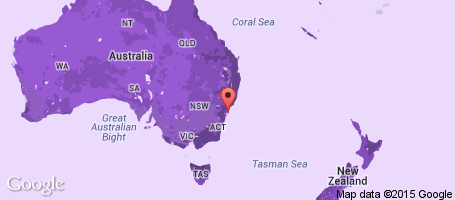
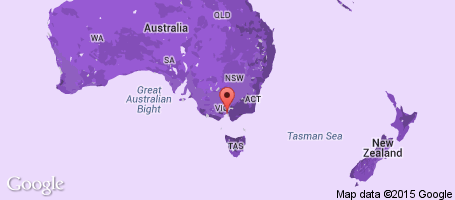
Added Pacific Northwest post, updated location.

diff --git a/app/blog/20150427-cities-of-the-pacific-northwest.md b/app/blog/20150427-cities-of-the-pacific-northwest.md
@@ -1,6 +1,5 @@
 ---
 pages      : all
-draft      : true
 slug       : cities-of-the-pacific-northwest
 title      : Cities of the Pacific Northwest
 date       : !!str 2015-04-26T11:00:00-07:00
@@ -37,10 +36,25 @@ archives:
   - !!str 2015-04
 ---
 
-Lorem ipsum dolor sit amet.
+From [Bogotá](/blog/the-next-chapter.html) we flew into Fort Lauderdale and onwards to Los Angeles. We almost missed our connecting flight, as we left 40 minutes late in Bogotá and it took a long time to clear customs and baggage inspection. Right after we entered the plane, the gate closed, and off to LA we went.
+
+We spent the night in Los Angeles Airport, before taking an early morning flight to Seattle, where we met up with Herta’s parents and drove to Portland.
 
 ## Portland, OR
+The first thing we did upon arrival in Portland was catching up on sleep - our close to 24-hour journey left us very tired. The next day, we opted to first explore the Multnomah Falls and Mount Hood National Park, both located an hour or two outside Portland.
+
+The bridge in front of the falls and the moss on the trees makes for a very scenic surrounding. From there, we drove a little further towards Mount Hood. This mountain is visible from Portland, and even in Spring is still full of skiers. The view from the top made the trip very worthwhile.
+
+On our second and final day in Portland we visited the city itself. Portland is a rather small city that is easily explored on foot. We made a stop at the iconic food trucks for lunch, and afterwards went for a walk near the waterfront. The city is nice, but at the same time there does not seem to be too much going on.
 
 ## Vancouver
+The drive from Portland to Vancouver took us nearly a day, as we made a stop at the Pacific coast before heading north. This stop turned out to be rather useless; despite the sun the wind made it uncomfortable. When arriving in Vancouver, however, the sun made it a very warm welcome. We spent two days exploring the city and its waterfront, which turned out to be quite nice as it was full of runners, bikers, and pedestrians.
+
+Just outside the city the Capilano Suspension Bridge, and Stanley Park on the way are great places to visit. Also, about one hour outside of Vancouver, in New Westminster, we stopped at the Dutch Shopping Center to stock up on Dutch treats and enjoy some great cheese with Dutch rusks. A great way to end our visit to Canada.
 
 ## Seattle, WA
+We ended our visit to the Pacific Northwest where we started: Seattle. We stayed in Seattle for four days, which turned out to be plenty. Seattle is the birthplace of tons of businesses, like Amazon, Boeing, Starbucks, and so on. The major highlights of Seattle are the Pike Place Market, Space Needle, and the car museum located in Tacoma.
+
+Another sight worth visiting is the cities underground, which resulted of a city-wide fire in 1889. During the rebuilding phase, the local government raised the street by one level to improve the infrastructure, causing the bottom floor to become below street level. Nowadays, large parts of these underground spaces are still in use, yet others are long forgotten.
+
+The ten day visit to the Pacific Northwest flew by. We visited the three major cities in the area, but other than that had only little time to explore the surroundings of these cities, like the Olympic Park or Mt. Rainier around Seattle.
